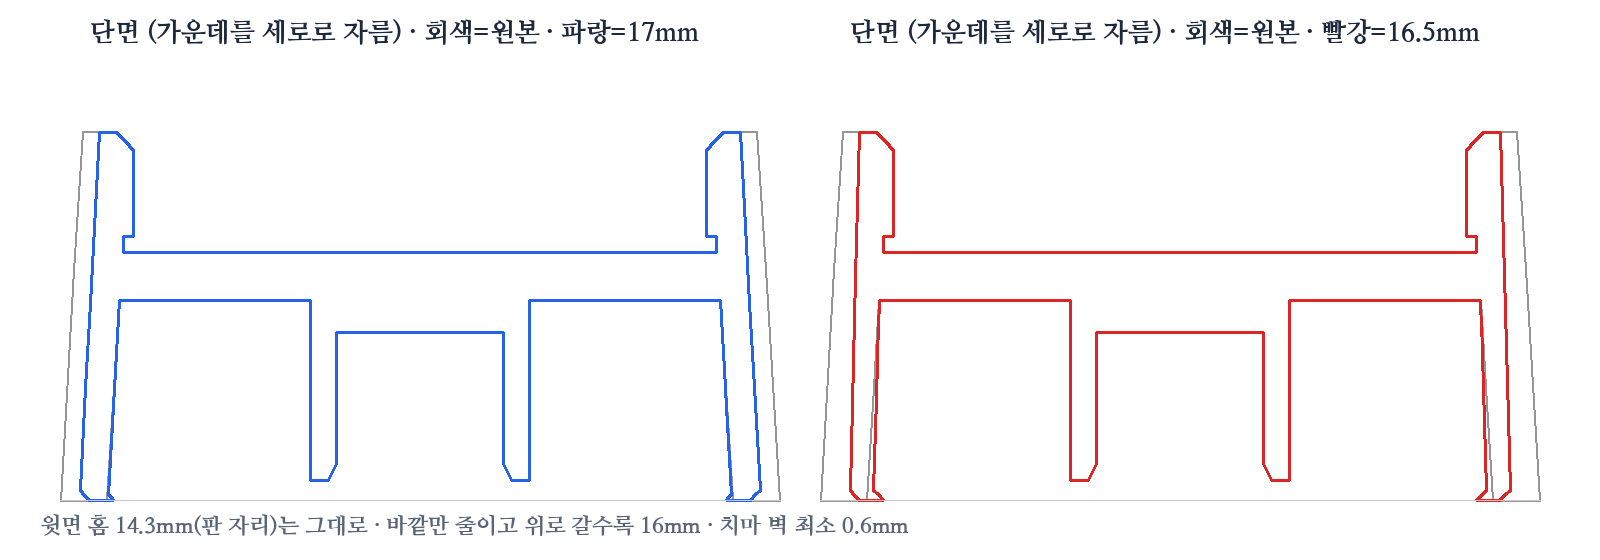
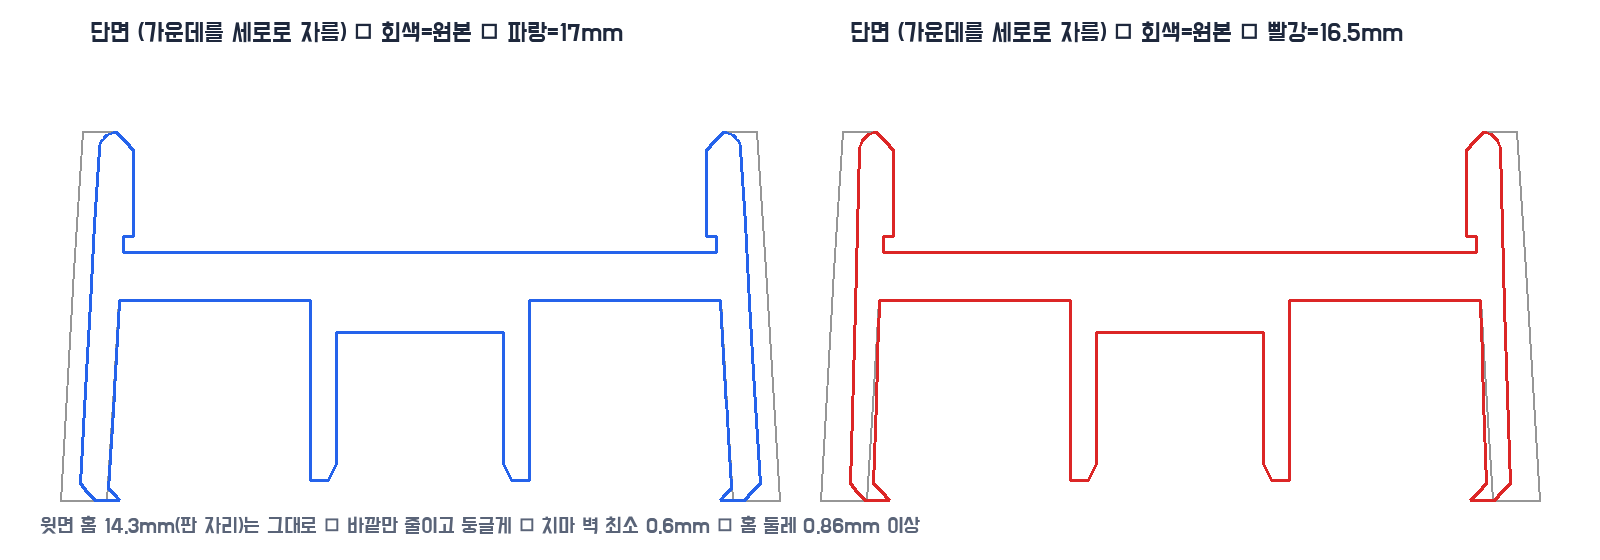
Keycap base README: rounder slim variants, all socket lengths, refreshed section preview
Claude-Session: https://claude.ai/code/session_01RmcRpJi3kYs6m1Wpxk74Yg

diff --git a/models/keycap-base/README.md b/models/keycap-base/README.md
@@ -18,18 +18,25 @@
 
 ![기본 윗판(왼쪽) · 도장 윗판(오른쪽) 단면](preview-stamp.png)
 
-## 바깥을 줄인 키캡 (보관함·다른 끼움 자리가 빡빡할 때)
+## 바깥을 줄인 둥근 키캡 (보관함·다른 끼움 자리가 빡빡할 때)
 
-윗면의 **판 끼우는 홈 14.3mm는 그대로**라 부스에서 뽑은 14×14mm 판이 똑같이 끼워져요. 바깥만 줄였어요(둘 다 소켓 0.5mm 버전 기반).
+윗면의 **판 끼우는 홈 14.3mm는 그대로**라 부스에서 뽑은 14×14mm 판이 똑같이 끼워져요. 바깥만 줄이고, 원본과 한눈에 구분되게 **더 둥글게** 만들었어요: 모서리를 아래부터 크게 둥글리고(R3.5→3.8, 원본은 2.0→4.2), 윗면 바깥 테두리를 둥글게 굴리고(R0.45), 바닥 모서리는 0.4mm 45°로 깎았어요(첫 층이 퍼져도 치수 안).
 
-![원본·17mm·16.5mm 단면](preview-outer.png)
+![원본(회색) · 17mm(분홍) · 16.5mm(파랑)](preview-round.png)
+![단면 비교](preview-outer.png)
 
-| 파일 | 바닥 바깥 | 맨 위 바깥 | 치마 벽 | 홈 둘레 벽 |
-| --- | --- | --- | --- | --- |
-| `keycap-base-socket-0.5.stl` (원본) | 18.0mm | 16.9mm | 1.2mm | 약 1.3mm |
-| `keycap-base-socket-0.5-outer17.stl` | **17.0mm** | 16.0mm | 약 0.7mm | 0.9mm |
-| `keycap-base-socket-0.5-outer16.5.stl` | **16.5mm** | 16.0mm | 0.6mm | 0.9mm |
+| 십자 기둥(소켓) | 바닥 17mm | 바닥 16.5mm |
+| --- | --- | --- |
+| 0.5mm 줄임 **(추천)** | `keycap-base-socket-0.5-outer17.stl` | `keycap-base-socket-0.5-outer16.5.stl` |
+| 1.0mm 줄임 | `keycap-base-socket-1.0-outer17.stl` | `keycap-base-socket-1.0-outer16.5.stl` |
+| 1.5mm 줄임 | `keycap-base-socket-1.5-outer17.stl` | `keycap-base-socket-1.5-outer16.5.stl` |
 
-- 위로 갈수록 좁아지는 모양과 둥근 모서리는 원본처럼 유지하고, 바닥 모서리는 0.25mm 깎아 첫 층이 퍼져도 치수를 넘지 않아요.
-- 16.5mm는 치마 벽이 0.6mm보다 얇아지지 않게 치마 안쪽 아래의 벌어진 부분을 조금 메웠어요(스위치 들어가는 공간이 한쪽 최대 약 0.15mm 좁아짐). **먼저 17mm로 맞춰 보고**, 그래도 빡빡하면 16.5mm를 쓰세요.
-- `python3 models/keycap-base/slim_outer.py 16.8`처럼 원하는 바닥 크기로 다시 만들 수 있어요.
+| | 원본 | 17mm | 16.5mm |
+| --- | --- | --- | --- |
+| 바깥 (바닥 → 맨 위) | 18.0 → 16.9mm | 17.0 → 16.0mm | 16.5 → 16.0mm |
+| 치마 벽 (가장 얇은 곳) | 1.2mm | 0.6mm (옆면 0.7) | 0.6mm |
+| 홈 둘레 벽 | 1.3mm | 0.86mm 이상, 둥근 윗 테두리 끝으로 갈수록 얇아짐 | 같음 |
+
+- 십자 기둥·판 홈·돌기·판 빼는 구멍은 각 소켓 버전 그대로예요. 이미 쓰던 소켓 길이와 같은 줄에서 고르면 돼요.
+- 치마 벽이 0.6mm보다 얇아지지 않게 치마 안쪽 아래의 벌어진 부분과 모서리를 조금 메웠어요(16.5mm에서 스위치 들어가는 공간이 한쪽 최대 약 0.15mm 좁아짐). **먼저 17mm로 맞춰 보고**, 그래도 빡빡하면 16.5mm를 쓰세요.
+- `python3 models/keycap-base/slim_outer.py 16.8`처럼 원하는 바닥 크기로 다시 만들 수 있어요(세 소켓 버전 모두).
